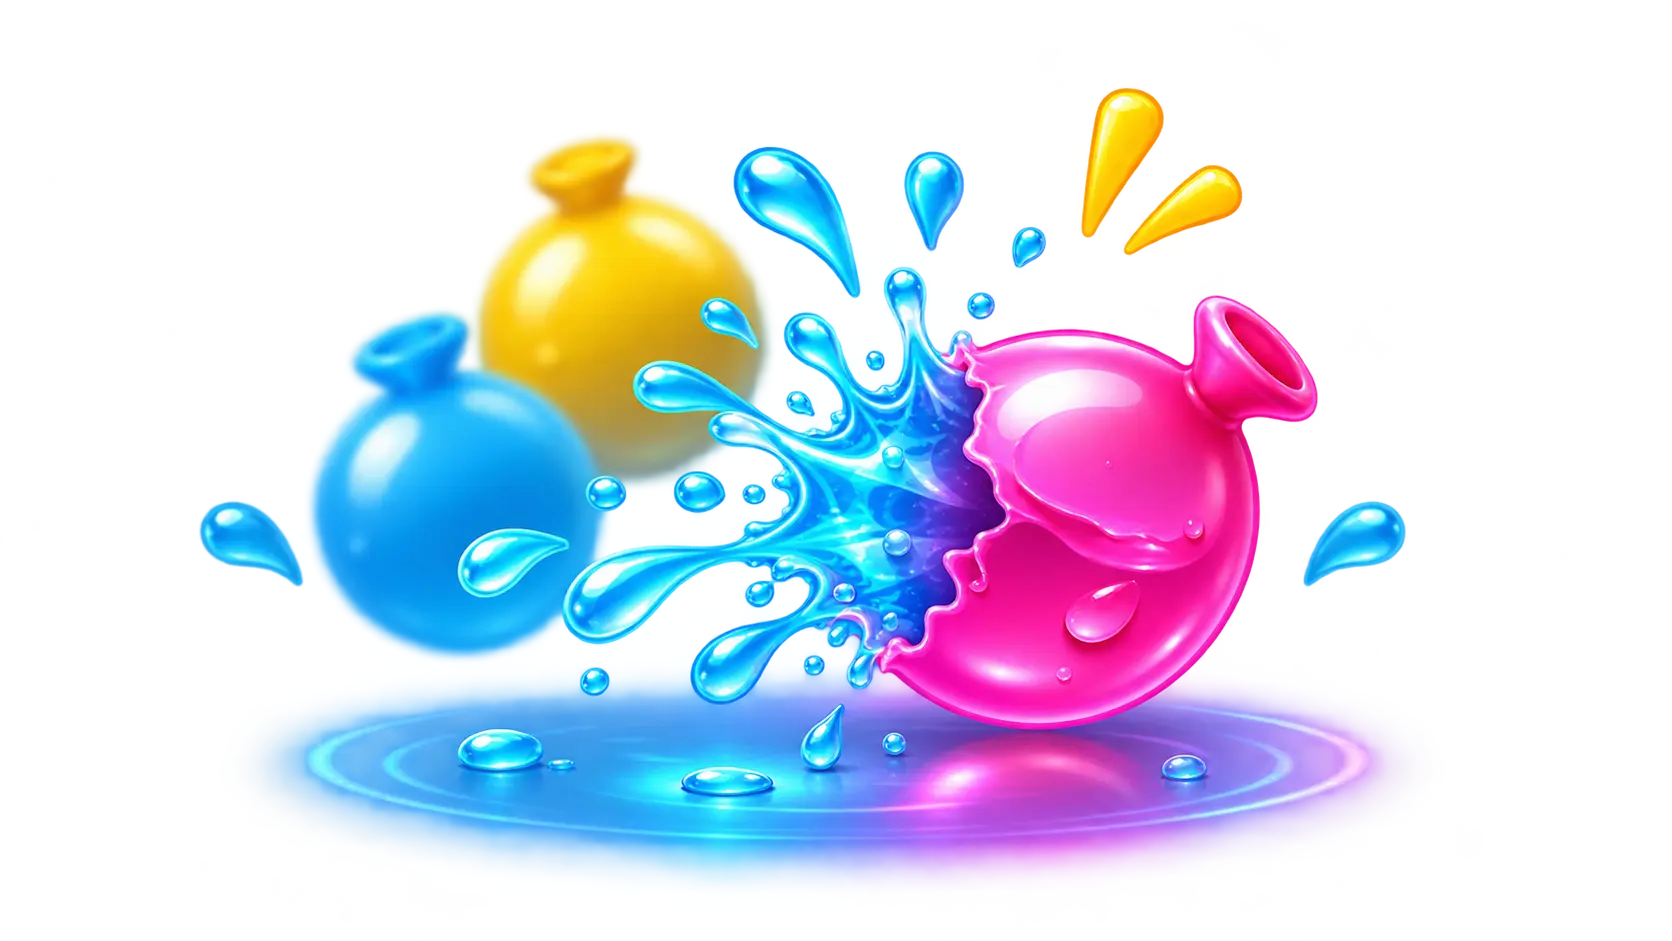
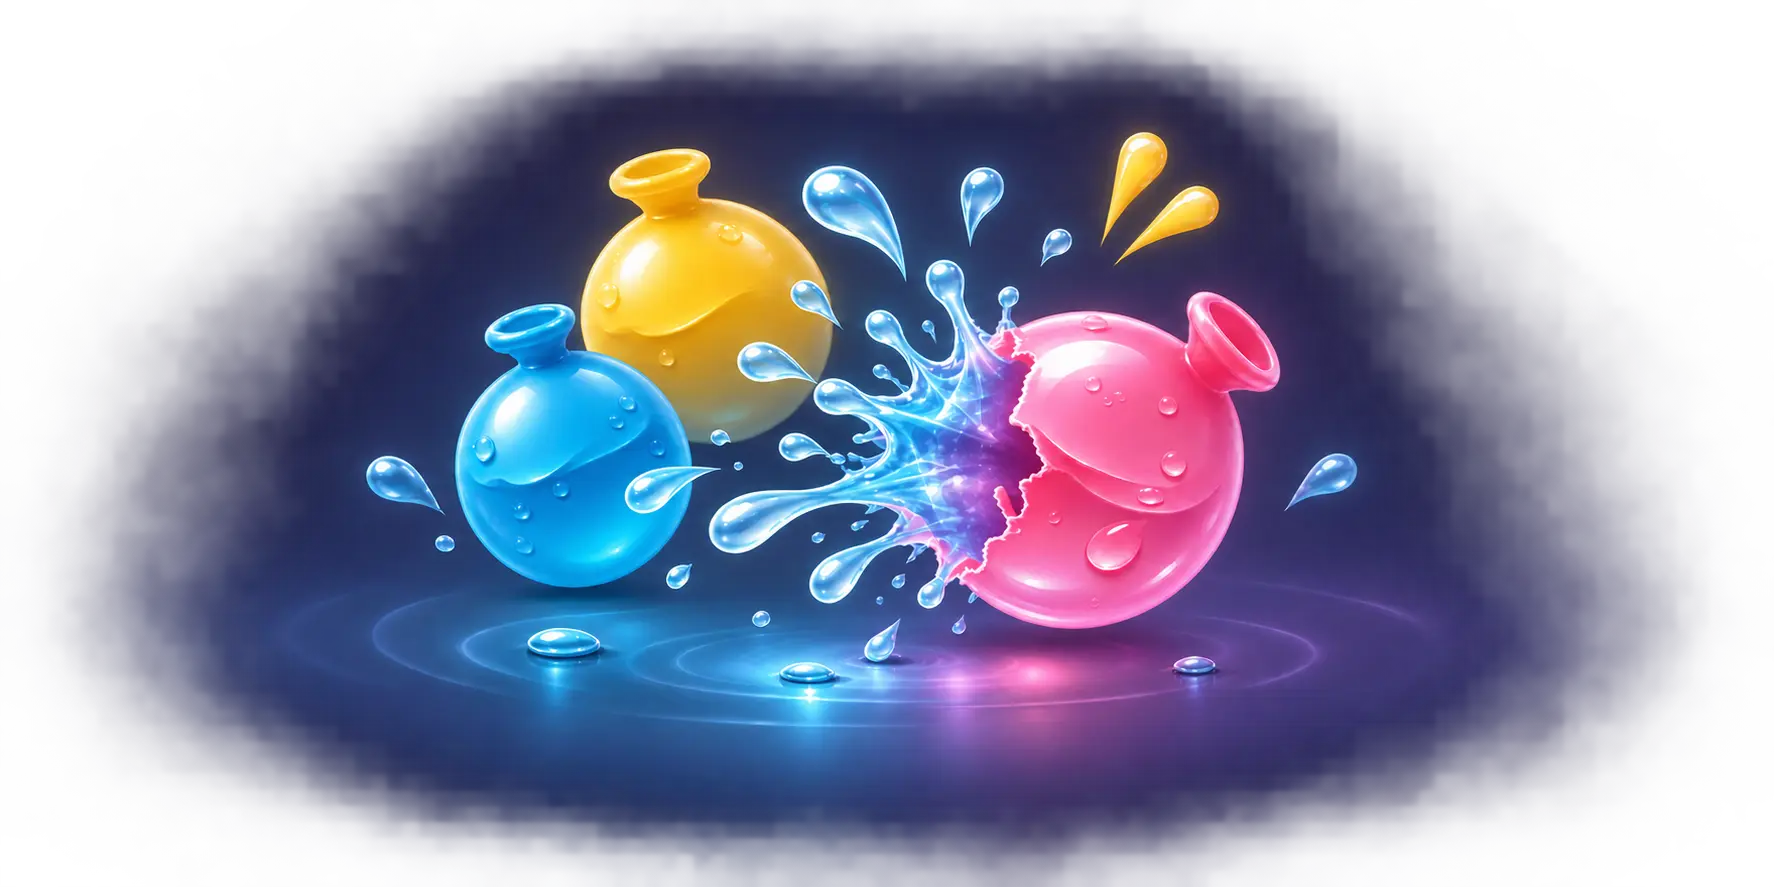
home scene updated

diff --git a/styles.css b/styles.css
@@ -608,6 +608,7 @@ input:focus-visible + .toggle-track {
    inset: 0;
    pointer-events: none;
    overflow: hidden;
+   opacity: 0.5;
 }
 .pool-grid {
    position: absolute;
@@ -1313,9 +1314,9 @@ body[data-screen="start"] #modalBackdrop {
    );
    aspect-ratio: 459 / 1024;
    container-type: inline-size;
-}
+} 
 
-.home-art {
+.home-title {
    display: block;
    width: 100%;
    height: auto;
@@ -1324,6 +1325,17 @@ body[data-screen="start"] #modalBackdrop {
    text-align: center;
    margin: auto;
    padding-top: 50px;
+}
+
+.home-art {
+   display: block;
+   width: 160%;
+   height: auto;
+   pointer-events: none;
+   margin: auto;
+   position: absolute;
+   bottom: 16%;
+   left: -27%;
 }
 
 .how-to-play-button {
@@ -1386,7 +1398,7 @@ body[data-screen="start"] #modalBackdrop {
    display: flex;
    align-items: center;
    justify-content: flex-start;
-   gap: 3cqw;
+   gap: 1cqw;
    width: 50%;
    min-height: 15cqw;
    padding: 6cqw 8cqw;
@@ -2052,7 +2064,7 @@ body {
    fill-opacity: 0.06;
 }
 .ambient-orb {
-   opacity: 0.12;
+   opacity: 0.08;
 }
 .grid-cell {
    background: radial-gradient(ellipse, #ab79ef13, transparent 65%);

diff --git a/index.html b/index.html
@@ -129,8 +129,8 @@
   <div id="modalBackdrop" class="modal-backdrop">
     <section id="startModal" class="home-screen" role="dialog" aria-modal="true" aria-labelledby="startTitle">
       <h1 id="startTitle" class="sr-only">Cool Pop</h1>
-      <img class="home-art" src="assets/cool-pop-title.webp" alt="" width="459" height="1024" fetchpriority="high" draggable="false">
-      <!-- <img class="home-art" src="assets/home-scene.webp" alt="" width="459" height="1024" fetchpriority="high" draggable="false"> -->
+      <img class="home-title" src="assets/cool-pop-title.webp" alt="" width="459" height="1024" fetchpriority="high" draggable="false">
+      <img class="home-art" src="assets/home-scene.webp" alt="" width="459" height="1024" fetchpriority="high" draggable="false">
       <button id="startGameBtn" type="button" class="start-button" aria-label="Start game">
         <span class="start-button-icon" aria-hidden="true">
           <svg viewBox="0 0 24 24" focusable="false">
